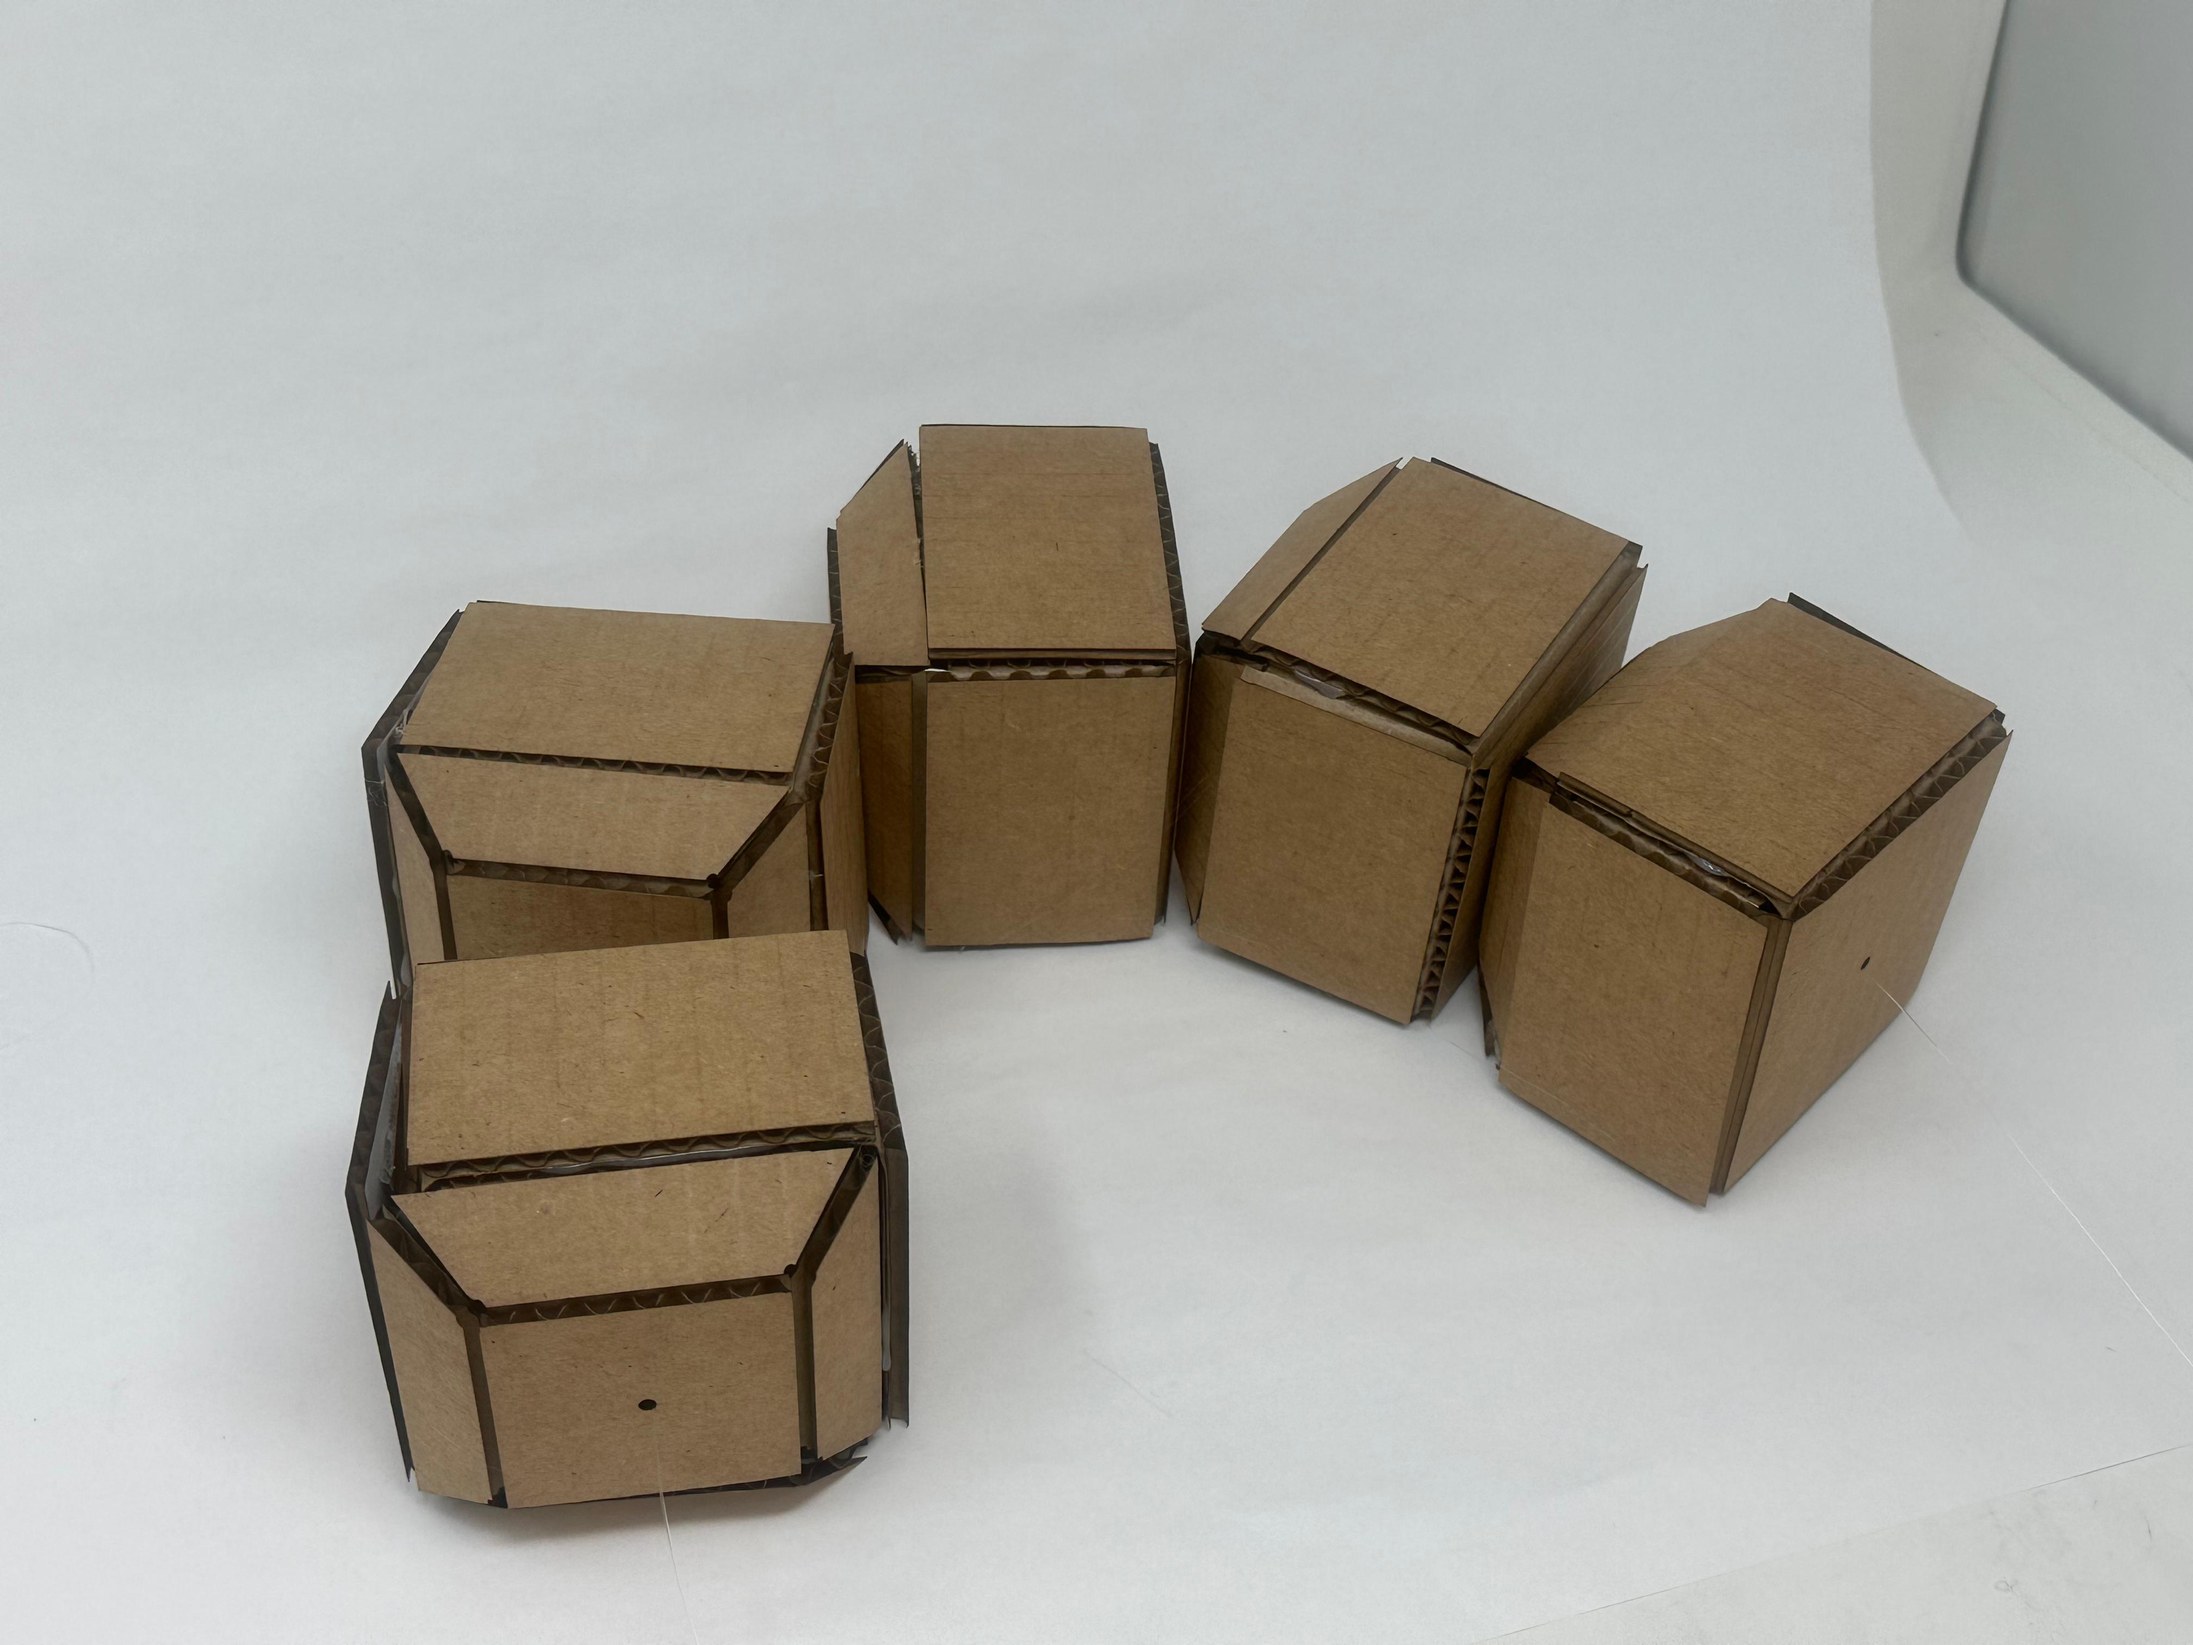
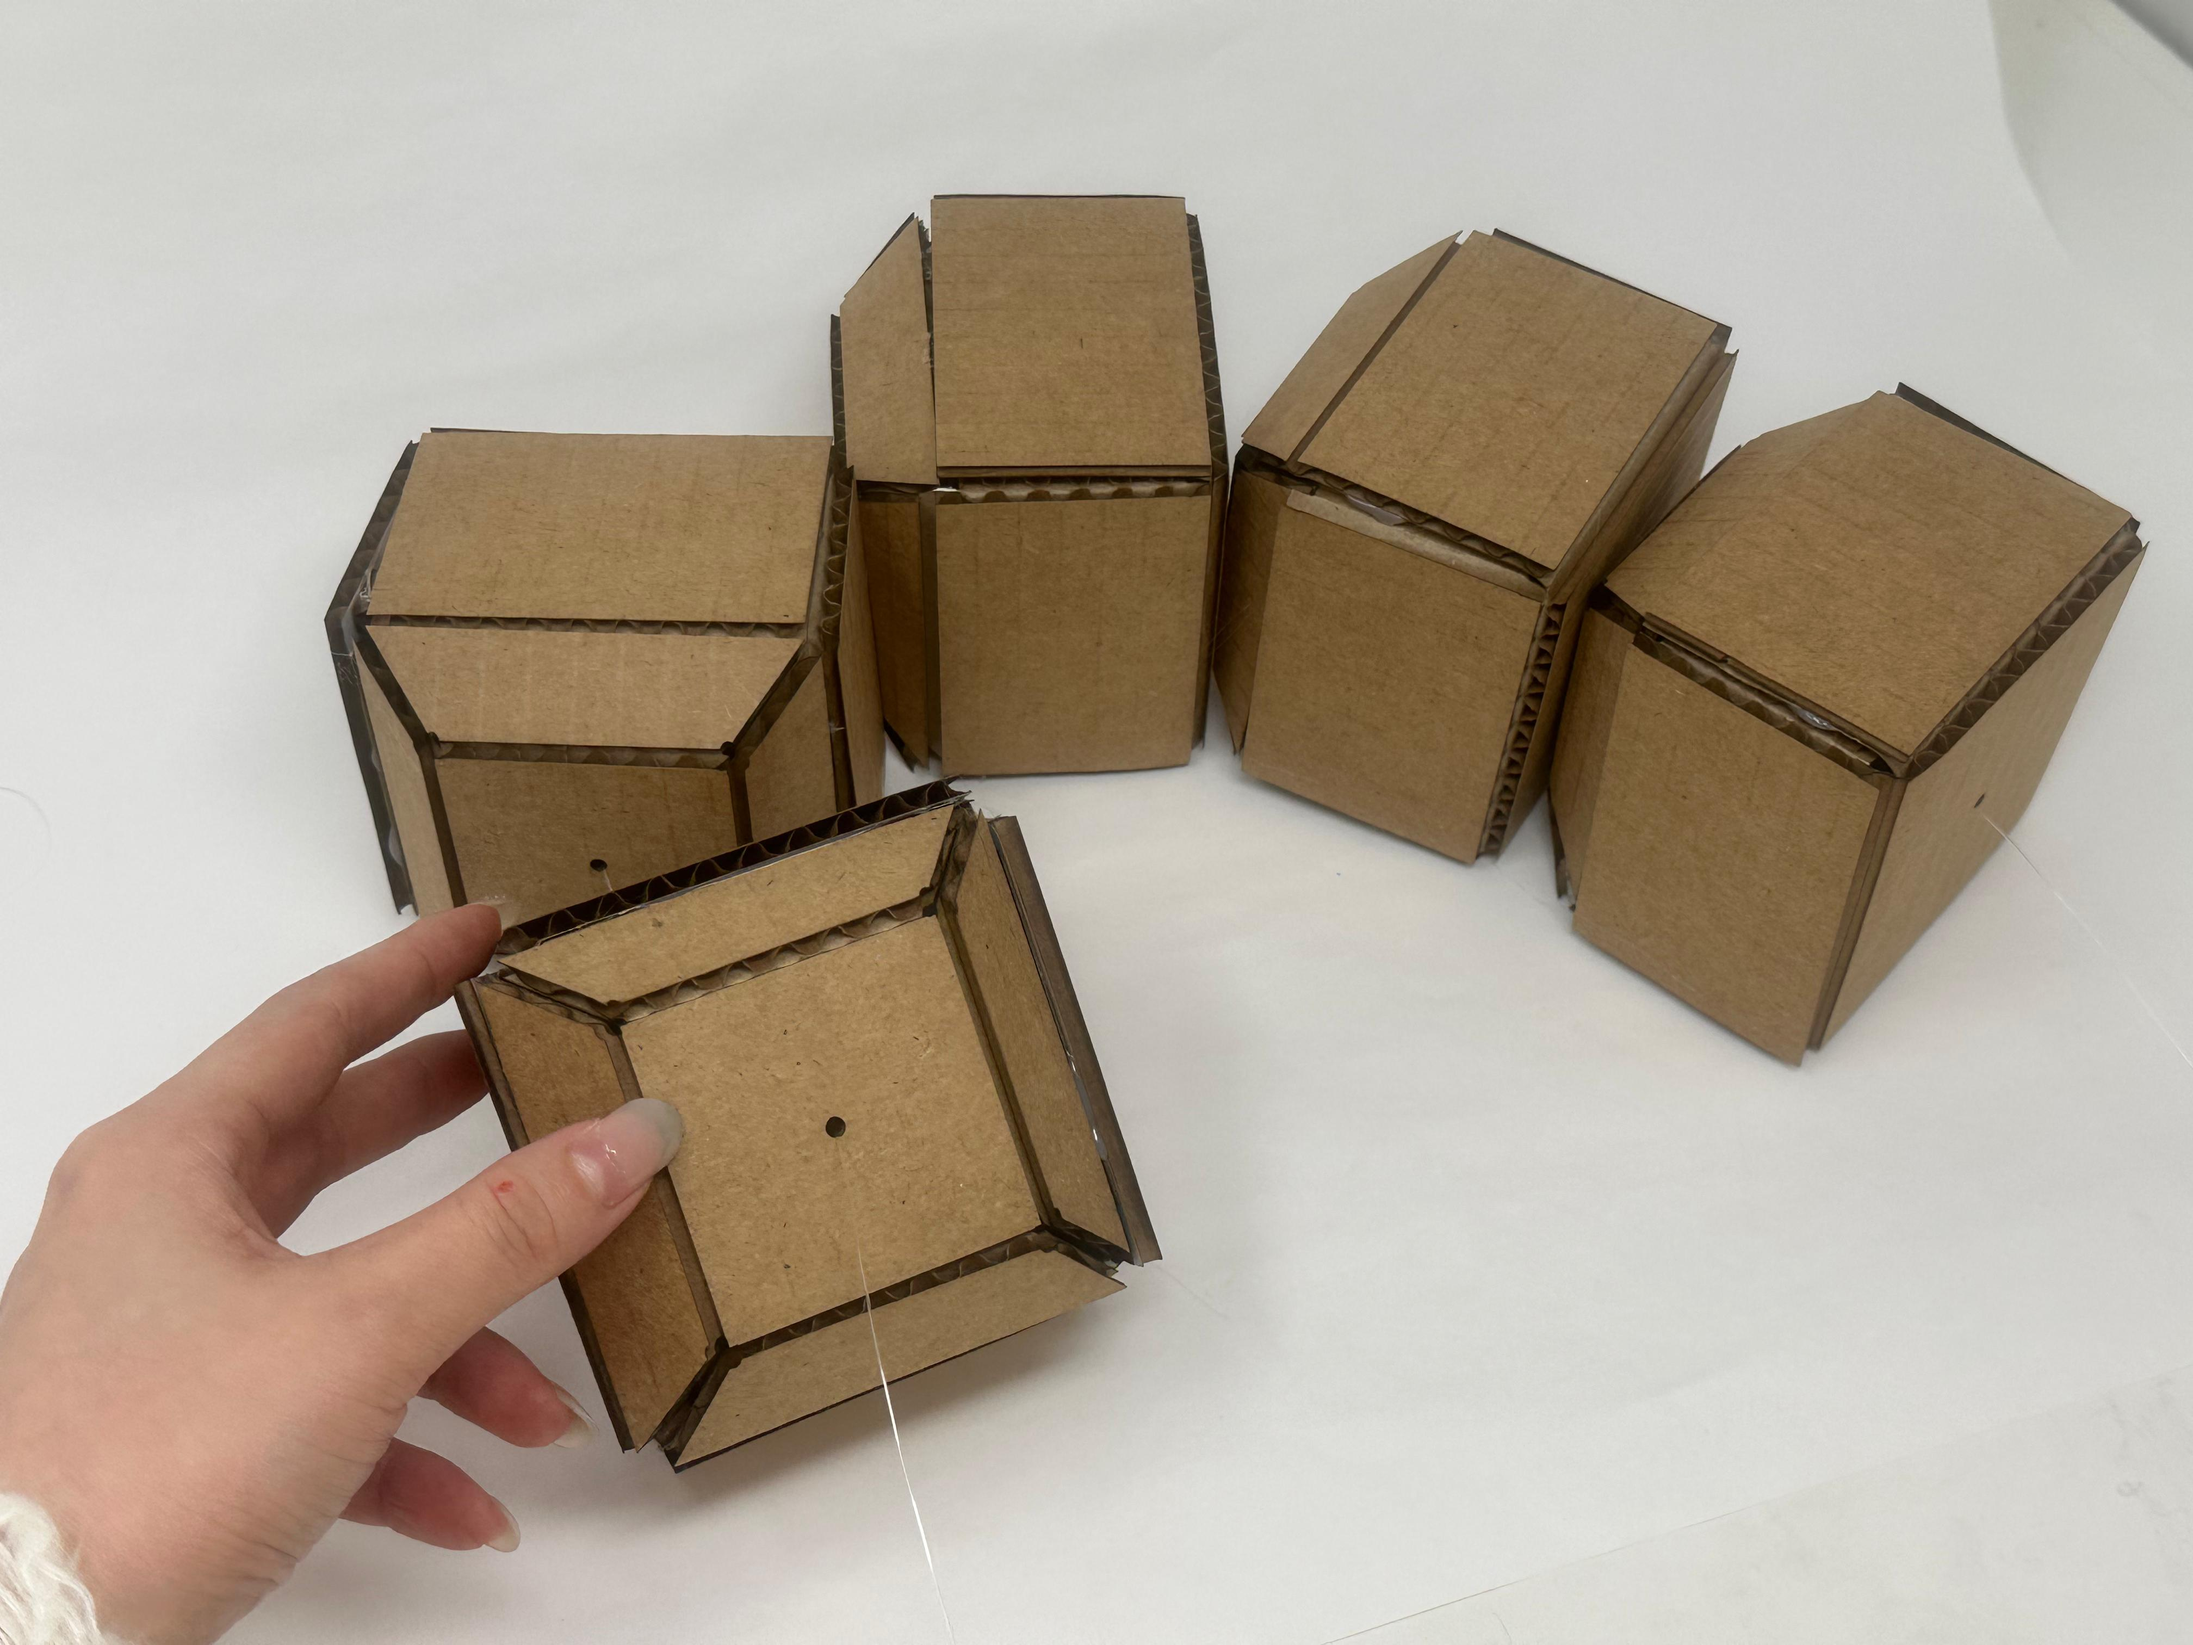
Updated README.md

diff --git a/Lab 4/README.md b/Lab 4/README.md
@@ -334,16 +334,20 @@ Think about how you want to present the information about what your sensor is se
 
 **\*\*\*Pick one of these display designs to integrate into your prototype.\*\*\***
 
-![Inspiration 2](https://github.com/thomknoe/INFO-5345/blob/Fall2025/Lab%204/Inspiration/Inspiration_2.jpg)
-![Inspiration 3](https://github.com/thomknoe/INFO-5345/blob/Fall2025/Lab%204/Inspiration/Inspiration_3.jpg)
+<p align="center">
+  <img src="https://github.com/thomknoe/INFO-5345/blob/Fall2025/Lab%204/Inspiration/Inspiration_2.jpg" alt="Inspiration 2" width="49.5%"/>
+  <img src="https://github.com/thomknoe/INFO-5345/blob/Fall2025/Lab%204/Inspiration/Inspiration_2.jpg" alt="Inspiration 3" width="49.5%"/>
+</p>
 
 **\*\*\*Explain the rationale for the design.\*\*\*** (e.g. Does it need to be a certain size or form or need to be able to be seen from a certain distance?)
 
-![Spine Unit](https://github.com/thomknoe/INFO-5345/blob/Fall2025/Lab%204/Images/Spine_Units.png)
+![Spine Unit](https://github.com/thomknoe/INFO-5345/blob/Fall2025/Lab%204/Images/Spine_Unit.png)
 
-![Cardboard Assembly 1](https://github.com/thomknoe/INFO-5345/blob/Fall2025/Lab%204/Images/Cardboard_Assembly_1.jpg)
-![Cardboard Assembly 2](https://github.com/thomknoe/INFO-5345/blob/Fall2025/Lab%204/Images/Cardboard_Assembly_2.jpg)
-![Cardboard Assembly 3](https://github.com/thomknoe/INFO-5345/blob/Fall2025/Lab%204/Images/Cardboard_Assembly_3.jpg)
+<p align="center">
+  <img src="https://github.com/thomknoe/INFO-5345/blob/Fall2025/Lab%204/Images/Cardboard_Assembly_1.jpg" alt="Cardboard Assembly 1" width="33%"/>
+  <img src="https://github.com/thomknoe/INFO-5345/blob/Fall2025/Lab%204/Images/Cardboard_Assembly_2.jpg" alt="Cardboard Assembly 2" width="33%"/>
+    <img src="https://github.com/thomknoe/INFO-5345/blob/Fall2025/Lab%204/Images/Cardboard_Assembly_3.jpg" alt="Cardboard Assembly 3" width="33%"/>
+</p>
 
 Build a cardboard prototype of your design.
 
@@ -354,8 +358,6 @@ Build a cardboard prototype of your design.
 ![Cardbaord Prototype 1](https://github.com/thomknoe/INFO-5345/blob/Fall2025/Lab%204/Images/Cardbaord_Prototype_1.jpg)
 ![Cardbaord Prototype 2](https://github.com/thomknoe/INFO-5345/blob/Fall2025/Lab%204/Images/Cardbaord_Prototype_2.jpg)
 ![Cardbaord Prototype 3](https://github.com/thomknoe/INFO-5345/blob/Fall2025/Lab%204/Images/Cardbaord_Prototype_3.jpg)
-![Cardbaord Prototype 4](https://github.com/thomknoe/INFO-5345/blob/Fall2025/Lab%204/Images/Cardbaord_Prototype_4.jpg)
-![Cardbaord Prototype 5](https://github.com/thomknoe/INFO-5345/blob/Fall2025/Lab%204/Images/Cardbaord_Prototype_5.jpg)
 
 # LAB PART 2
 
